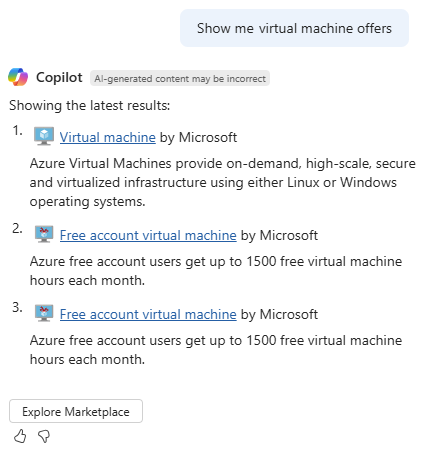
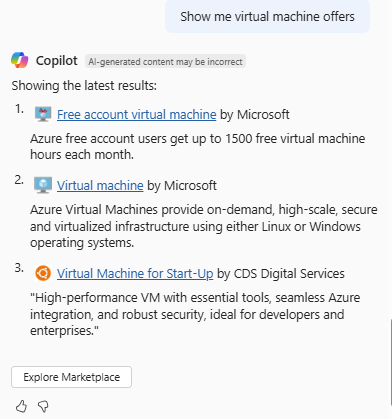
refresh

diff --git a/articles/copilot/discover-marketplace.md b/articles/copilot/discover-marketplace.md
@@ -1,7 +1,7 @@
 ---
 title: Discover Azure Marketplace solutions 
 description: Learn how Azure Copilot helps you find the right Azure Marketplace solutions using natural language queries.
-ms.date: 07/08/2025
+ms.date: 11/20/2025
 ms.topic: how-to
 ms.service: copilot-for-azure
 ms.author: jenhayes
@@ -13,7 +13,7 @@ author: JnHs
 
 Azure Copilot enables you to find the right Azure Marketplace solutions using natural language queries. Instead of relying on filters or knowing specific product names, you can describe your needs in your own words and get tailored suggestions.
 
-When you ask a question about tools and offers, Azure Copilot determines your intent, then enriches your query with context and inferred filters. Next, it searches the Azure Marketplace using intelligent APIs and returns a list of the top relevant offers, services, or follow-ups. Where applicable, an **"Explore Marketplace"** button is provided to navigate directly to the Azure Marketplace so you can explore and implement the suggested solutions. Copilot may also provide follow-up questions or related prompts to refine your search or explore other solutions.
+When you ask a question about tools and offers, Azure Copilot determines your intent, then enriches your query with context and inferred filters. Next, it searches the Azure Marketplace using intelligent APIs and returns a list of the top relevant offers, services, or follow-ups. The results shown vary,depending on the current offerings in Azure Marketplace. Where applicable, an **"Explore Marketplace"** button is provided to navigate directly to the Azure Marketplace so you can explore and implement the suggested solutions. Copilot may also provide follow-up questions or related prompts to refine your search or explore other solutions.
 
 ## Sample prompts
 
@@ -38,7 +38,7 @@ You can ask "**I'm looking for a blockchain solution for managing digital assets
 
 :::image type="content" source="media/discover-marketplace/blockchain-solutions.png" alt-text="Screenshot of Azure Copilot providing options for blockchain solutions in Azure Marketplace.":::
 
-In this example, the prompt "**Show me virtual machine offers**" results in a list of virtual machine options, including Azure Virtual Machines and Windows Virtual Desktop.
+In this example, the prompt "**Show me virtual machine offers**" results in a list of virtual machine options.
 
 :::image type="content" source="media/discover-marketplace/virtual-machine-offers.png" alt-text="Screenshot of Azure Copilot providing options for virtual machine offers in Azure Marketplace.":::
 
@@ -46,6 +46,7 @@ Similarly, the prompt "**I'm looking for a speech to text recognition tool**" pr
 
 :::image type="content" source="media/discover-marketplace/speech-to-text-tools.png" alt-text="Screenshot of Azure Copilot providing options for speech-to-text recognition tools in Azure Marketplace.":::
 
+For each of these examples, the results you see may vary based on the current offerings in Azure Marketplace. To view more details about any solution, select its name or the **Explore Marketplace** button.
 
 ## Next steps
 
